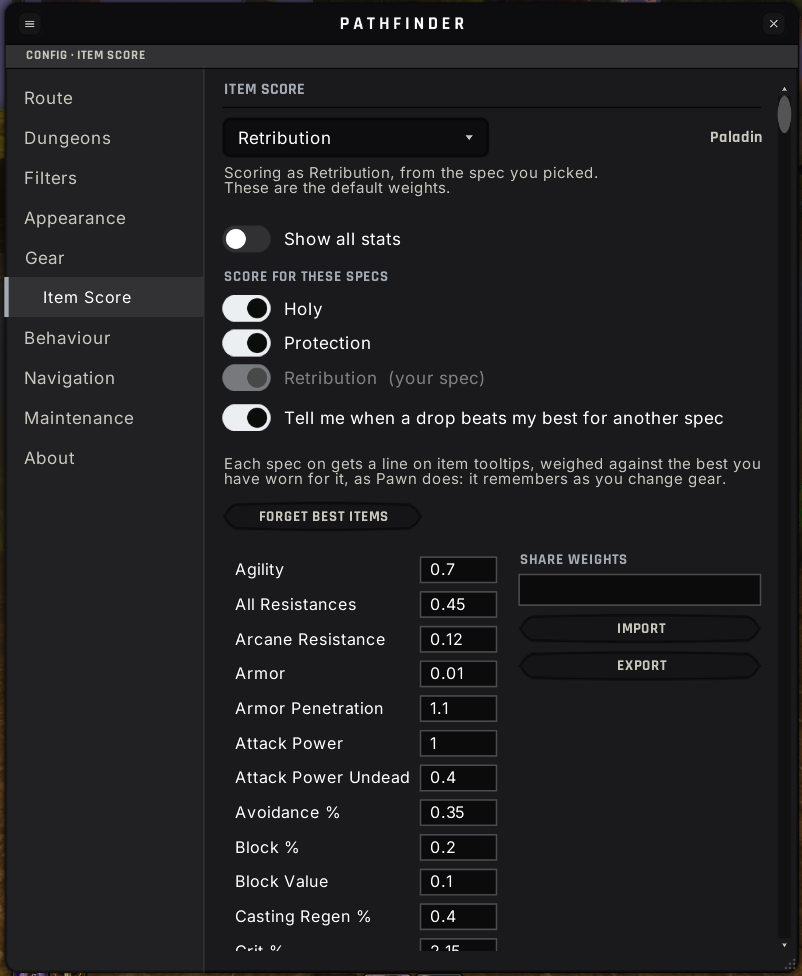
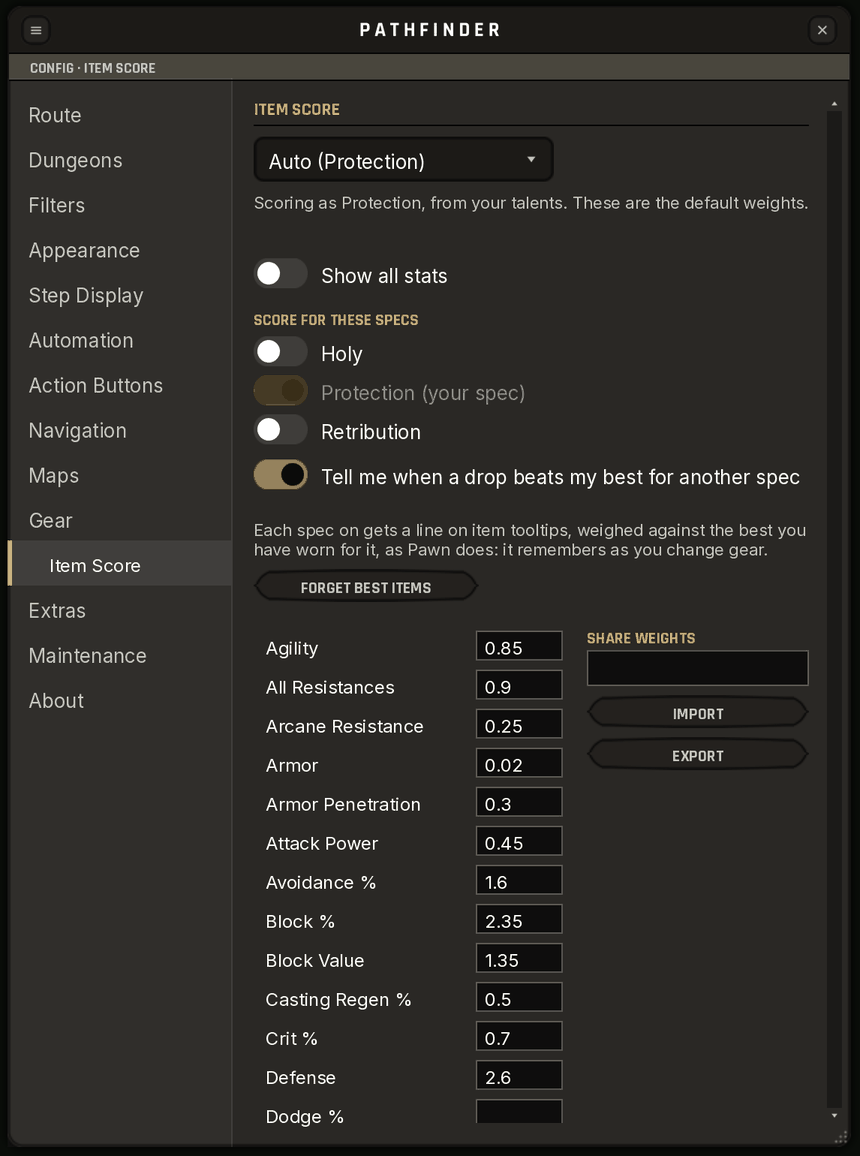
Level-ups worded "Pathfinder:", emote on to start with; Talent Advisor placeholder; README pictures of every current page (0.22.8)
- The emote reads "<you> Pathfinder: I just leveled up from 22 to 23!
  (2 hours 1 minute)" and is ticked until unticked; party and guild get
  "Pathfinder: I leveled up from 22 to 23! (2 hours 1 minute)", still
  off until ticked.
- Extras gains "Talent Advisor (coming soon)": a switch held off until
  Part 4 builds the advisor.
- README: Route, Dungeons, Gear and Item Score were in-game shots of the
  old page list; every options picture is now drawn from the current
  code by the offline renderer (the Extras page added), and the captions
  say so.

Claude-Session: https://claude.ai/code/session_01XiMjJedyYgiZAb2vbxvU5A

Changed region(s): [[0.0, 0.0, 1.0, 1.0], [0.4052, 0.0, 0.5923, 0.0307], [0.9352, 0.0, 0.9663, 0.0307]]

diff --git a/README.md b/README.md
@@ -1,4 +1,4 @@
-# Aegis: Pathfinder (v0.22.7)
+# Aegis: Pathfinder (v0.22.8)
 
 **Your levelling guide, on screen, all the way to 60.**
 
@@ -142,7 +142,9 @@ the guides of the dungeons you ticked are offered beside the next zone.
 
 | Stat weights, per spec | The Gear Finder |
 | :---: | :---: |
-| <img src="docs/images/options-itemscore.png" width="380" alt="Options, Item Score page: a Retribution Paladin's stat weights, with Holy and Protection scored as well and Share weights to import or export"> | <img src="docs/images/gear-finder.png" width="380" alt="The Gear Finder tab on the character panel, for a level 23 Mage: a cell per slot with its biggest upgrade, how much better it is and where it drops, and Shadowfang Keep suggested for four of them"> |
+| <img src="docs/images/options-itemscore.png" width="380" alt="Options, Item Score page: a Protection Paladin's stat weights, picked from the talents, with Holy and Retribution to score as well and Share weights to import or export"> | <img src="docs/images/gear-finder.png" width="380" alt="The Gear Finder tab on the character panel, for a level 23 Mage: a cell per slot with its biggest upgrade, how much better it is and where it drops, and Shadowfang Keep suggested for four of them"> |
+
+<sub>Both drawn from the addon's own code by its offline renderer, not captured in game.</sub>
 
 <!-- Screenshot to come: the Gear Advisor pop-up. Put it in docs/images/ and
      add it here. -->
@@ -191,13 +193,16 @@ Resize it from the corner.
 | :---: | :---: |
 | <img src="docs/images/options-automation.png" width="380" alt="Options, Automation page: accepting and turning in quests, taking the step's flight, buying, selling greys and repairing"> | <img src="docs/images/options-action-buttons.png" width="380" alt="Options, Action Buttons page: the windows, which way they grow, button size, which buttons to show and raid marks"> |
 
-| Maps | Gear |
+| Maps | Extras |
 | :---: | :---: |
-| <img src="docs/images/options-maps.png" width="380" alt="Options, Maps page: revealing the world map, the step on the map, the ant trail and its style, and rare creatures near your level"> | <img src="docs/images/options-gear.png" width="380" alt="Options, Gear page: the item score, the Gear Advisor and the Gear Finder"> |
+| <img src="docs/images/options-maps.png" width="380" alt="Options, Maps page: revealing the world map, the step on the map, the ant trail and its style, and rare creatures near your level"> | <img src="docs/images/options-extras.png" width="380" alt="Options, Extras page: Pathfinder's chat messages, detailed reputation gains, level-up announcements, and the Talent Advisor coming soon"> |
 
-<sub>Automation, Action Buttons and Maps are drawn from the addon's own code by
-its offline renderer, not captured in game. Route, Dungeons and Gear were
-captured in game before the pages took Zygor's order.</sub>
+| Gear |
+| :---: |
+| <img src="docs/images/options-gear.png" width="380" alt="Options, Gear page: the item score, the Gear Advisor, and the Gear Finder with its five upgrade sources"> |
+
+<sub>Drawn from the addon's own code by its offline renderer, with a new
+character's settings in the Day theme -- not captured in game.</sub>
 
 ### 🎨 Your server's colours
 
@@ -244,7 +249,7 @@ arrows step back or on; **right-click** them to jump back or on to your place.
 
 ## Something broken?
 
-1. Check the **version** in the load message or the options window's About page (`v0.22.7`) — quote it.
+1. Check the **version** in the load message or the options window's About page (`v0.22.8`) — quote it.
 2. Open the **Error log** (options → Maintenance) and copy what it shows.
 3. Say which guide and step you were on, and which server you play on.
 4. Tell us on **[Discord](https://discord.gg/Hr66t25vE7)** or open an

diff --git a/docs/FEATURES.md b/docs/FEATURES.md
@@ -57,8 +57,9 @@ pages down the left, after Zygor's from Appearance on:
 - **Maps**: revealing the world map, the step's places on it, an ant trail to
   the waypoint, and the rares near your level -- see **Maps**, below.
 - **Gear** and under it **Item Score** (the stat weights).
-- **Extras**: the addon's routine chat lines, detailed reputation gains, and
-  level-up announcements -- see **Extras**, below.
+- **Extras**: the addon's routine chat lines, detailed reputation gains,
+  level-up announcements, and the Talent Advisor to come -- see **Extras**,
+  below.
 - **Maintenance** (rescan, error log, setup) and **About** (version and
   credits).
 
@@ -545,14 +546,16 @@ continent's:
   "Stormwind +25: Honored 4,350 / 12,000, 7,650 to Revered". A faction under
   a header you have closed on the reputation panel is found too, and the
   header is closed again.
-- **Announce level-ups to:** Emote, Party chat, Guild chat -- each off until
-  ticked, since others see them. The emote reads "<you> Aegis: Pathfinder: I
-  just leveled up from 22 to 23! (2 hours 1 minute)"; party and guild get "I
-  leveled up from 22 to 23! (2 hours 1 minute)". The time is how long you
-  spent at the level just left, from the guide browser's level tracker, and
-  is left out for a level it did not count from the start (the one you were
-  on when you installed the addon). Nothing goes to a party or guild you are
-  not in.
+- **Announce level-ups to:** Emote (ticked to start with), Party chat and
+  Guild chat (each off until ticked). The emote reads "<you> Pathfinder: I
+  just leveled up from 22 to 23! (2 hours 1 minute)"; party and guild get
+  "Pathfinder: I leveled up from 22 to 23! (2 hours 1 minute)". The time is
+  how long you spent at the level just left, from the guide browser's level
+  tracker, and is left out for a level it did not count from the start (the
+  one you were on when you installed the addon). Nothing goes to a party or
+  guild you are not in.
+- **Talent Advisor (coming soon)**: its switch is shown, held off, until the
+  advisor arrives in a later update.
 
 **One step, or all of them.** The panel opens on the step you are on and
 nothing else, with its note in full and a meter underneath: a line for each

diff --git a/docs/TESTING.md b/docs/TESTING.md
@@ -186,10 +186,12 @@ are only found at startup.
       "Faction +N: Rank x / y, z to Next" after the client's line, with the
       numbers the reputation panel shows; also for a faction under a header
       you closed, which stays closed.
-- [ ] *Announce level-ups to* Emote: on a level up others nearby see the
-      emote, with how long the level took (none for the level you installed
-      on). Party and Guild: the shorter line there; nothing when you are in
-      neither.
+- [ ] *Announce level-ups to* Emote, ticked to start with: on a level up
+      others nearby see "<you> Pathfinder: I just leveled up from X to Y!",
+      with how long the level took (none for the level you installed on).
+      Party and Guild, once ticked: "Pathfinder: I leveled up from X to Y!"
+      there; nothing when you are in neither.
+- [ ] *Talent Advisor (coming soon)* is dimmed and can't be switched on.
 - [ ] *Rare creatures near my level*: rare icons on the zone's map at a few
       levels either side of yours (Westfall at 18: Foe Reaper 4000), named
       with their level on mouseover; *Icon size* and *See-through icons* change

diff --git a/CHANGELOG.md b/CHANGELOG.md
@@ -18,6 +18,21 @@ reports.
 
 ---
 
+## [0.22.8]
+
+### Changed
+- **Level-up announcements** are worded "Pathfinder: ...": the emote reads
+  "<you> Pathfinder: I just leveled up from 22 to 23! (2 hours 1 minute)",
+  and party and guild get "Pathfinder: I leveled up from 22 to 23! (2 hours
+  1 minute)". The emote is ticked to start with; party and guild are still
+  off until ticked.
+
+### Added
+- **Talent Advisor (coming soon)** on the Extras page: its switch, dimmed
+  and held off, until the advisor arrives.
+- The README's options pictures are all of the current pages now, drawn
+  from the addon's code, the Extras page among them.
+
 ## [0.22.7] — restart
 
 ### Added
@@ -1325,6 +1340,7 @@ on, each change gets its own entry.
 
 ---
 
+[0.22.8]: https://github.com/Torchlite-bit/Aegis_Pathfinder/releases
 [0.22.7]: https://github.com/Torchlite-bit/Aegis_Pathfinder/releases
 [0.22.6]: https://github.com/Torchlite-bit/Aegis_Pathfinder/releases
 [0.22.5]: https://github.com/Torchlite-bit/Aegis_Pathfinder/releases

diff --git a/docs/UI_SPEC.md b/docs/UI_SPEC.md
@@ -380,9 +380,12 @@ same way.
 
 **The Extras page.** Two switches under Chat, each with its note; under
 Level-ups, *Announce level-ups to:* as a `Build.Boxes` grid of three boxes
-(Emote, Party chat / Guild chat), the first grid whose boxes are off until
-ticked (`true` as a box's third field). The reputation line is an ordinary
-chat line from the addon, after the client's own.
+(Emote, Party chat / Guild chat). Emote is ticked until unticked; Party chat
+and Guild chat are the first boxes off until ticked (`true` as a box's third
+field). Under Talent Advisor, *Talent Advisor (coming soon)*: a switch held
+off (45% alpha, not clickable) that no setting lets go, with a note. The
+reputation line is an ordinary chat line from the addon, after the client's
+own.
 
 **On the world map** (`Maps.lua`) everything is drawn on the zone's own map,
 1002 by 668 like the client's. The unexplored overlays are tiles of our own on
